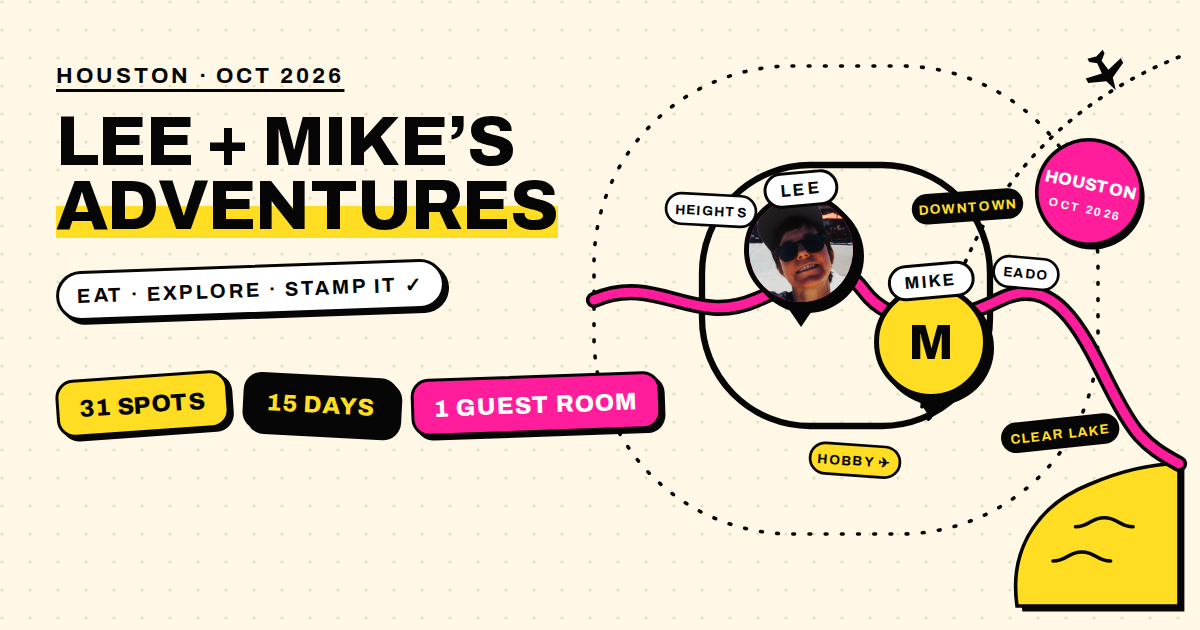
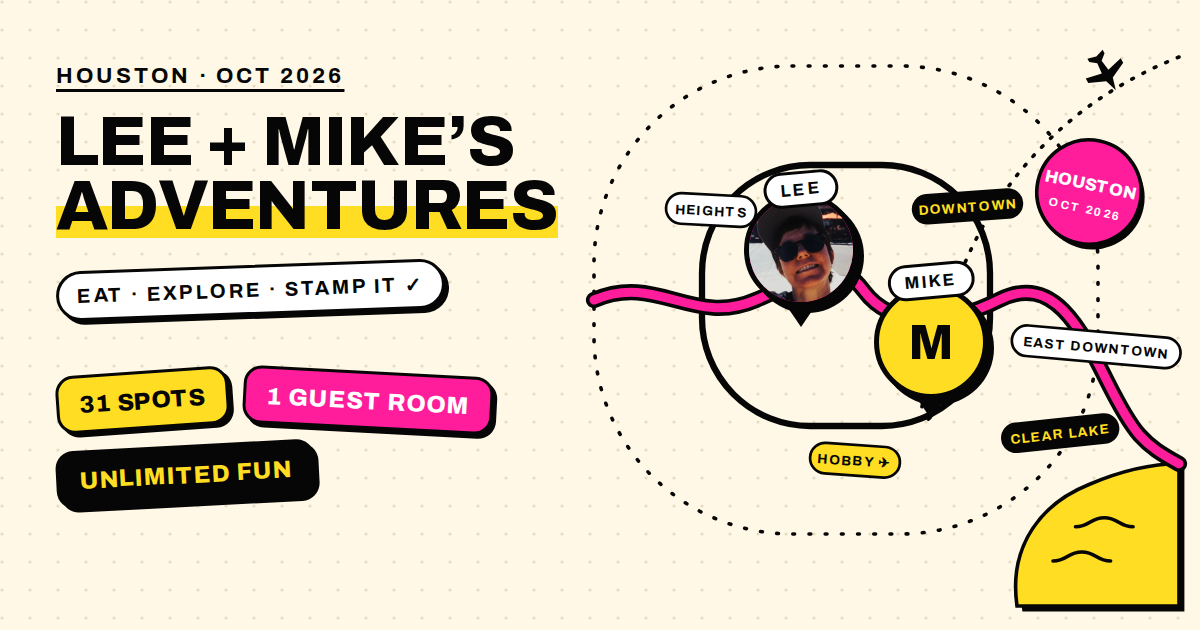
houston: share image reads 31 Spots / 1 Guest Room / Unlimited Fun; spell out East Downtown
Claude-Session: https://claude.ai/code/session_01EiwzmHXuouHVqmr255hQrE

Changed region(s): [[0.0308, 0.573, 0.555, 0.8143], [0.8325, 0.5127, 0.9867, 0.6032], [0.8017, 0.3921, 0.8942, 0.4825]]

diff --git a/docs/houston-og.html b/docs/houston-og.html
@@ -68,7 +68,7 @@
         transform: rotate(-2deg);
     }
 
-    .chips { display: flex; gap: 14px; margin-top: 60px; }
+    .chips { display: flex; flex-wrap: wrap; gap: 16px 14px; max-width: 520px; margin-top: 56px; }
     .chip {
         padding: 14px 20px 12px;
         border: 3px solid var(--ink);
@@ -155,7 +155,7 @@
         <g font-family="Clash Display, Archivo, sans-serif" font-weight="700" font-size="15" letter-spacing="1.5" text-anchor="middle">
             <g transform="translate(975 196) rotate(-4)"><rect x="-62" y="-17" width="124" height="34" rx="17" fill="#060606"/><text y="6" fill="#FFDD22">DOWNTOWN</text></g>
             <g transform="translate(690 200) rotate(3)"><rect x="-50" y="-17" width="100" height="34" rx="17" fill="#fff" stroke="#060606" stroke-width="3"/><text y="6" fill="#060606">HEIGHTS</text></g>
-            <g transform="translate(1040 270) rotate(5)"><rect x="-36" y="-17" width="72" height="34" rx="17" fill="#fff" stroke="#060606" stroke-width="3"/><text y="6" fill="#060606">EADO</text></g>
+            <g transform="translate(1118 352) rotate(5)"><rect x="-94" y="-17" width="188" height="34" rx="17" fill="#fff" stroke="#060606" stroke-width="3"/><text y="6" fill="#060606">EAST DOWNTOWN</text></g>
             <g transform="translate(1078 448) rotate(-6)"><rect x="-66" y="-17" width="132" height="34" rx="17" fill="#060606"/><text y="6" fill="#FFDD22">CLEAR LAKE</text></g>
             <g transform="translate(850 478) rotate(4)"><rect x="-50" y="-17" width="100" height="34" rx="17" fill="#FFDD22" stroke="#060606" stroke-width="3"/><text y="6" fill="#060606">HOBBY ✈</text></g>
         </g>
@@ -176,8 +176,8 @@
         <div class="tagline">EAT · EXPLORE · STAMP IT ✓</div>
         <div class="chips">
             <span class="chip" style="background:#FFDD22; transform:rotate(-4deg)">31 SPOTS</span>
-            <span class="chip" style="background:#060606; color:#FFDD22; transform:rotate(3deg)">15 DAYS</span>
-            <span class="chip" style="background:#FF1D9C; color:#fff; transform:rotate(-2deg)">1 GUEST ROOM</span>
+            <span class="chip" style="background:#FF1D9C; color:#fff; transform:rotate(3deg)">1 GUEST ROOM</span>
+            <span class="chip" style="background:#060606; color:#FFDD22; transform:rotate(-3deg)">UNLIMITED FUN</span>
         </div>
     </div>
 

diff --git a/js/houston-data.js b/js/houston-data.js
@@ -120,7 +120,7 @@ window.HOUSTON = {
         { id: 'ninfas', tab: 'eat', name: 'The Original Ninfa’s on Navigation', stamp: 'NINFA’S', hood: 'East End', why: 'Where Houston’s fajita obsession started.', icon: 'taco', shape: 'hex', ink: 'green', q: 'The Original Ninfa\'s on Navigation, Houston TX' },
         { id: 'uchi', tab: 'eat', name: 'Uchi', stamp: 'UCHI', hood: 'Montrose', why: 'Sushi. Sit at the bar and say yes to the specials.', icon: 'fork', shape: 'rect', ink: 'purple' },
         { id: 'tacos-tierra', tab: 'eat', name: 'Tacos Tierra Caliente', stamp: 'TIERRA CALIENTE', hood: 'Montrose', why: 'Truck tacos — al pastor — then cross the street to the Ice House.', icon: 'taco', shape: 'diamond', ink: 'orange' },
-        { id: 'nancys', tab: 'eat', name: 'Nancy’s Hustle', stamp: 'NANCY’S HUSTLE', hood: 'EaDo', why: 'Natural wine and the famous Nancy cakes. Book ahead.', icon: 'glass', shape: 'arch', ink: 'teal' },
+        { id: 'nancys', tab: 'eat', name: 'Nancy’s Hustle', stamp: 'NANCY’S HUSTLE', hood: 'East Downtown', why: 'Natural wine and the famous Nancy cakes. Book ahead.', icon: 'glass', shape: 'arch', ink: 'teal' },
         { id: 'mala', tab: 'eat', name: 'Mala Sichuan Bistro', stamp: 'MALA', hood: 'Chinatown', why: 'Real Sichuan heat out on Bellaire.', icon: 'flame', shape: 'circle', ink: 'red' },
         { id: 'blacksmith', tab: 'eat', name: 'Blacksmith', stamp: 'BLACKSMITH', hood: 'Montrose', why: 'Morning coffee, done right.', icon: 'coffee', shape: 'rect', ink: 'navy' },
         { id: 'anvil', tab: 'eat', name: 'Anvil Bar & Refuge', stamp: 'ANVIL', hood: 'Montrose', why: 'The cocktail bar that put Houston drinking on the map.', icon: 'glass', shape: 'hex', ink: 'maroon' },
